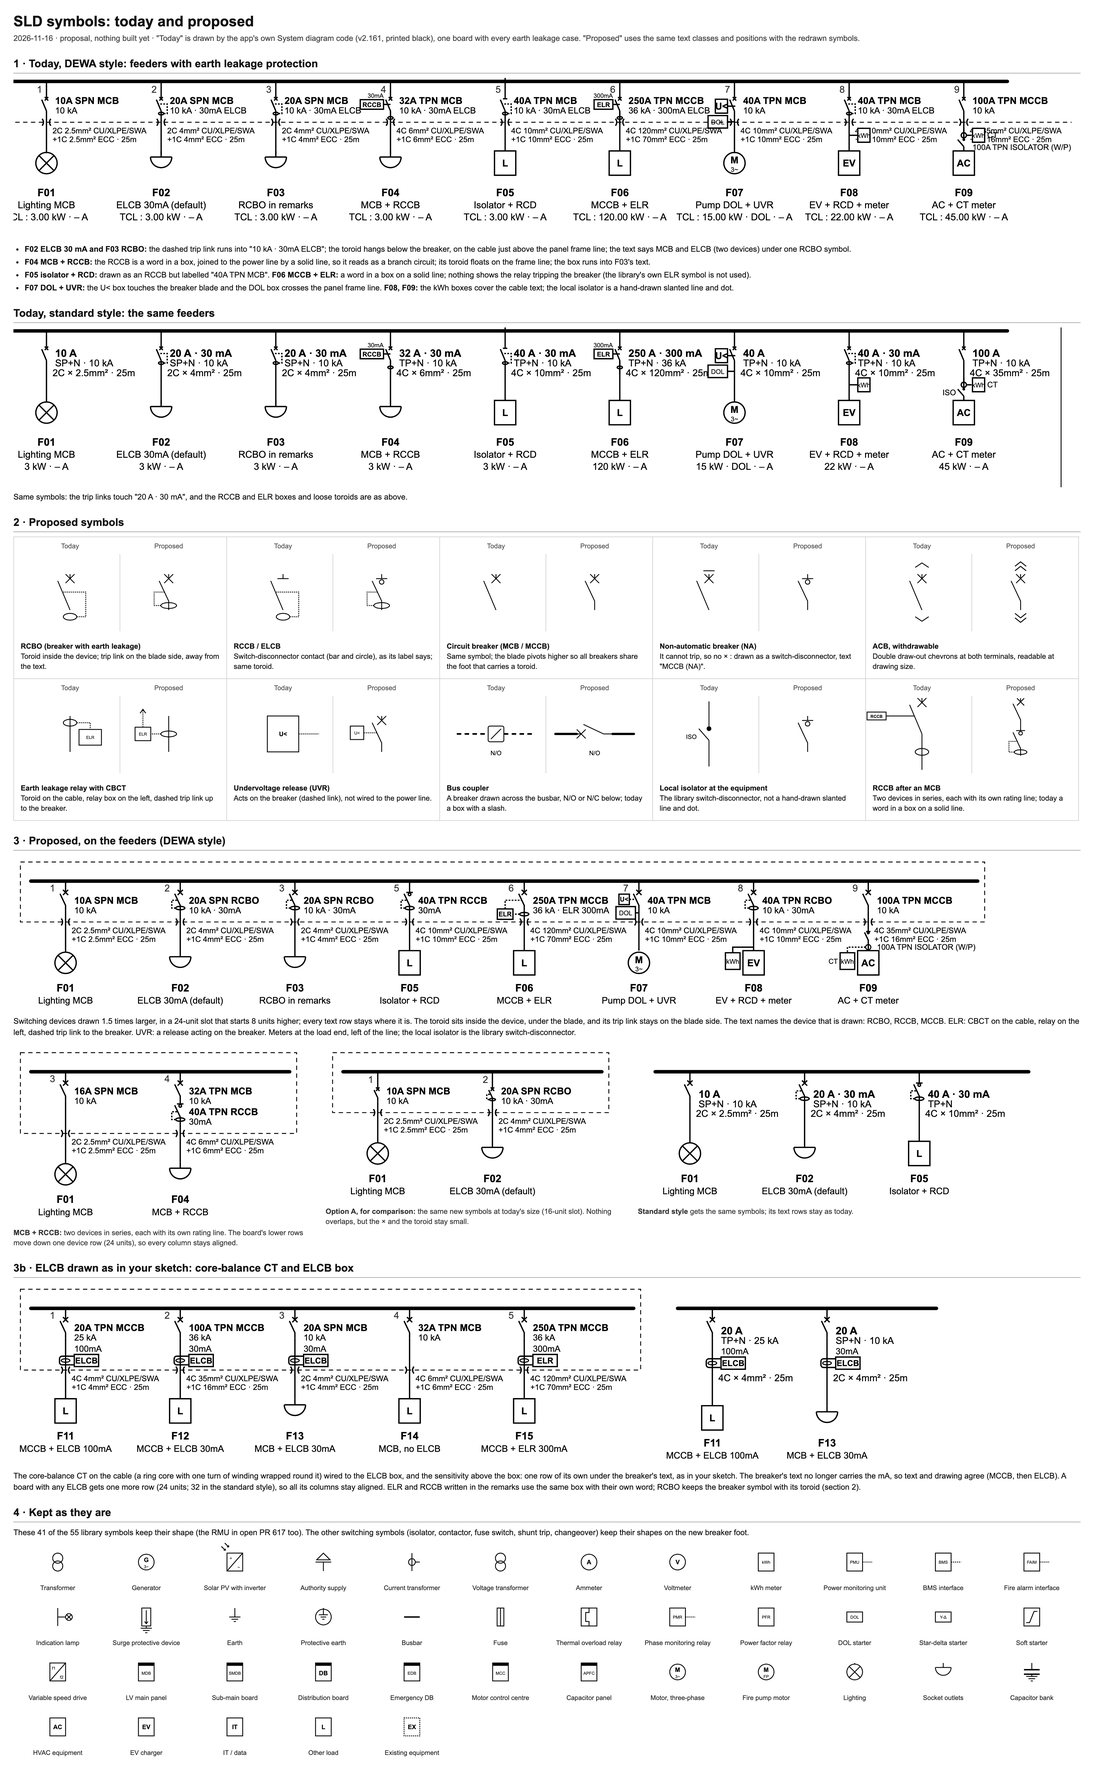
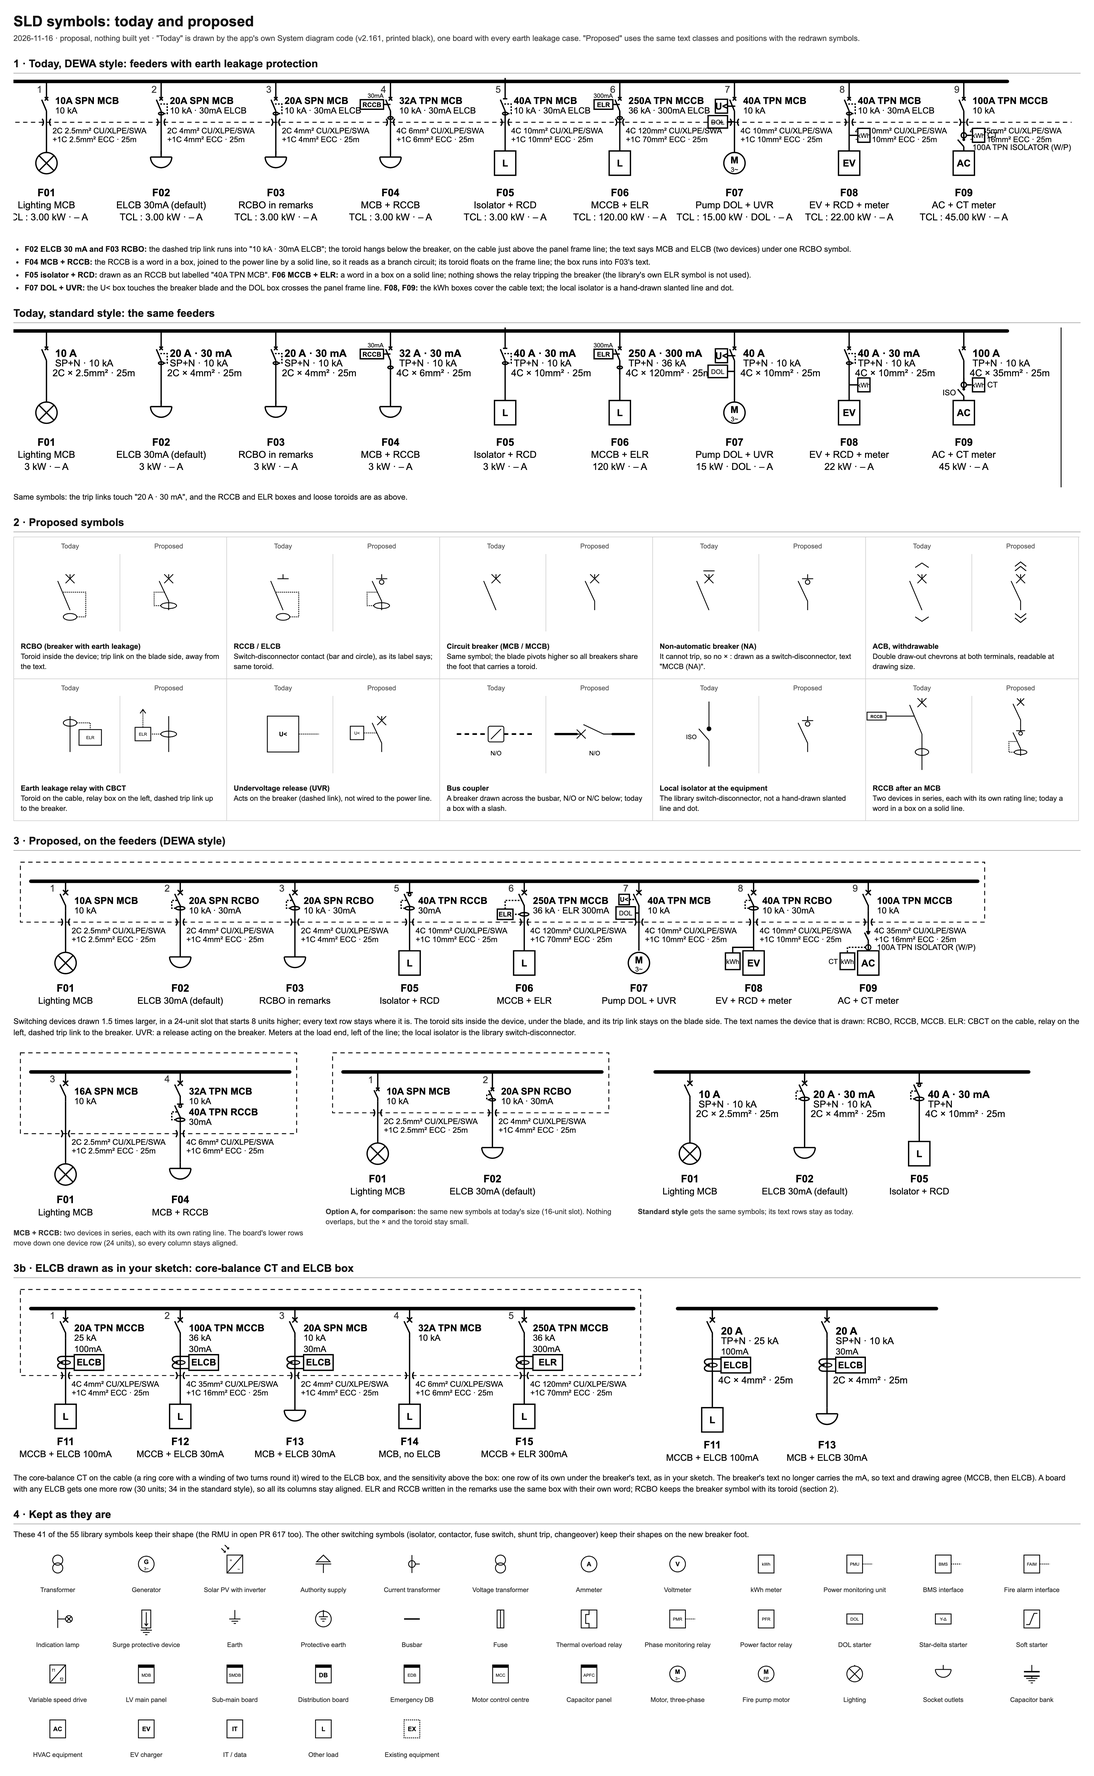
docs(sld): ELCB core-balance CT with a two-turn winding, as in the user's second sketch
The user's second sketch shows the winding round the core twice: two
loops round the ring core's left end, both ends across the cable into a
taller ELCB box, the sensitivity above. Mockup section 3b now draws that
(box 34 x 18). The ELCB row is 30 units (34 in the standard style) so the
mA, the box and the panel frame line stay clear of each other.

diff --git a/docs/mockups/sld-symbols-mockup.html b/docs/mockups/sld-symbols-mockup.html
@@ -133,10 +133,10 @@ svg text{font-family:Arial,Helvetica,sans-serif}
 
 <h2>3b · ELCB drawn as in your sketch: core-balance CT and ELCB box</h2>
 <div class="row">
-<figure><div class="sysdiag"><svg xmlns="http://www.w3.org/2000/svg" width="1128.4" height="316.2" viewBox="0 0 728 204"><rect x="8" y="8" width="714" height="93" class="frame-ln"/><line x1="20" y1="30" x2="714" y2="30" class="bus"/><line x1="60" y1="30" x2="60" y2="40" class="ln"/><text x="48" y="42" class="acc-t way-no" text-anchor="end" style="font-size:11px">1</text><g class="iec"><path d="M 60 40 V 43 M 57 40 L 63 46 M 63 40 L 57 46 M 60 64 V 58 L 53.63 44.5" class="ln"/></g><text x="70" y="56" class="dev" >20A TPN MCCB</text><text x="70" y="67" class="dev-k" >25 kA</text><line x1="60" y1="64" x2="60" y2="134" class="ln"/><g class="acc"><ellipse cx="60" cy="90" rx="5" ry="2" class="sym-ln"/><path d="M70 85H56A3 3 0 0 0 53 88V92A3 3 0 0 0 56 95H70" class="ln"/><rect x="70" y="83" width="28" height="14" class="sym"/><text x="84" y="93.4" class="acc-t b" text-anchor="middle" style="font-size:9.5px">ELCB</text><text x="70" y="80" class="acc-t" style="font-size:10px">100mA</text></g><path d="M55 97 q3 4 0 8 M65 97 q-3 4 0 8" class="ln"/><text x="67" y="114" class="acc-t" style="font-size:9px">4C 4mm² CU/XLPE/SWA</text><text x="67" y="124" class="acc-t" style="font-size:9px">+1C 4mm² ECC · 25m</text><g class="iec"><rect x="47.75" y="134" width="24.5" height="28" class="sym"/><text x="60" y="152" text-anchor="middle" class="iec-t b">L</text></g><text x="60" y="181" class="b" text-anchor="middle">F11</text><text x="60" y="195" class="m" text-anchor="middle" style="font-size:10.5px">MCCB + ELCB 100mA</text><line x1="192" y1="30" x2="192" y2="40" class="ln"/><text x="180" y="42" class="acc-t way-no" text-anchor="end" style="font-size:11px">2</text><g class="iec"><path d="M 192 40 V 43 M 189 40 L 195 46 M 195 40 L 189 46 M 192 64 V 58 L 185.63 44.5" class="ln"/></g><text x="202" y="56" class="dev" >100A TPN MCCB</text><text x="202" y="67" class="dev-k" >36 kA</text><line x1="192" y1="64" x2="192" y2="134" class="ln"/><g class="acc"><ellipse cx="192" cy="90" rx="5" ry="2" class="sym-ln"/><path d="M202 85H188A3 3 0 0 0 185 88V92A3 3 0 0 0 188 95H202" class="ln"/><rect x="202" y="83" width="28" height="14" class="sym"/><text x="216" y="93.4" class="acc-t b" text-anchor="middle" style="font-size:9.5px">ELCB</text><text x="202" y="80" class="acc-t" style="font-size:10px">30mA</text></g><path d="M187 97 q3 4 0 8 M197 97 q-3 4 0 8" class="ln"/><text x="199" y="114" class="acc-t" style="font-size:9px">4C 35mm² CU/XLPE/SWA</text><text x="199" y="124" class="acc-t" style="font-size:9px">+1C 16mm² ECC · 25m</text><g class="iec"><rect x="179.75" y="134" width="24.5" height="28" class="sym"/><text x="192" y="152" text-anchor="middle" class="iec-t b">L</text></g><text x="192" y="181" class="b" text-anchor="middle">F12</text><text x="192" y="195" class="m" text-anchor="middle" style="font-size:10.5px">MCCB + ELCB 30mA</text><line x1="324" y1="30" x2="324" y2="40" class="ln"/><text x="312" y="42" class="acc-t way-no" text-anchor="end" style="font-size:11px">3</text><g class="iec"><path d="M 324 40 V 43 M 321 40 L 327 46 M 327 40 L 321 46 M 324 64 V 58 L 317.63 44.5" class="ln"/></g><text x="334" y="56" class="dev" >20A SPN MCB</text><text x="334" y="67" class="dev-k" >10 kA</text><line x1="324" y1="64" x2="324" y2="134" class="ln"/><g class="acc"><ellipse cx="324" cy="90" rx="5" ry="2" class="sym-ln"/><path d="M334 85H320A3 3 0 0 0 317 88V92A3 3 0 0 0 320 95H334" class="ln"/><rect x="334" y="83" width="28" height="14" class="sym"/><text x="348" y="93.4" class="acc-t b" text-anchor="middle" style="font-size:9.5px">ELCB</text><text x="334" y="80" class="acc-t" style="font-size:10px">30mA</text></g><path d="M319 97 q3 4 0 8 M329 97 q-3 4 0 8" class="ln"/><text x="331" y="114" class="acc-t" style="font-size:9px">2C 4mm² CU/XLPE/SWA</text><text x="331" y="124" class="acc-t" style="font-size:9px">+1C 4mm² ECC · 25m</text><g class="iec"><path d="M 324 134 V 141 M 311.75 141 H 336.25" class="ln"/><path d="M 311.75 141 A 12.25 12.25 0 0 0 336.25 141" class="sym-open"/></g><text x="324" y="181" class="b" text-anchor="middle">F13</text><text x="324" y="195" class="m" text-anchor="middle" style="font-size:10.5px">MCB + ELCB 30mA</text><line x1="456" y1="30" x2="456" y2="40" class="ln"/><text x="444" y="42" class="acc-t way-no" text-anchor="end" style="font-size:11px">4</text><g class="iec"><path d="M 456 40 V 43 M 453 40 L 459 46 M 459 40 L 453 46 M 456 64 V 58 L 449.63 44.5" class="ln"/></g><text x="466" y="56" class="dev" >32A TPN MCB</text><text x="466" y="67" class="dev-k" >10 kA</text><line x1="456" y1="64" x2="456" y2="134" class="ln"/><path d="M451 97 q3 4 0 8 M461 97 q-3 4 0 8" class="ln"/><text x="463" y="114" class="acc-t" style="font-size:9px">4C 6mm² CU/XLPE/SWA</text><text x="463" y="124" class="acc-t" style="font-size:9px">+1C 6mm² ECC · 25m</text><g class="iec"><rect x="443.75" y="134" width="24.5" height="28" class="sym"/><text x="456" y="152" text-anchor="middle" class="iec-t b">L</text></g><text x="456" y="181" class="b" text-anchor="middle">F14</text><text x="456" y="195" class="m" text-anchor="middle" style="font-size:10.5px">MCB, no ELCB</text><line x1="588" y1="30" x2="588" y2="40" class="ln"/><text x="576" y="42" class="acc-t way-no" text-anchor="end" style="font-size:11px">5</text><g class="iec"><path d="M 588 40 V 43 M 585 40 L 591 46 M 591 40 L 585 46 M 588 64 V 58 L 581.63 44.5" class="ln"/></g><text x="598" y="56" class="dev" >250A TPN MCCB</text><text x="598" y="67" class="dev-k" >36 kA</text><line x1="588" y1="64" x2="588" y2="134" class="ln"/><g class="acc"><ellipse cx="588" cy="90" rx="5" ry="2" class="sym-ln"/><path d="M598 85H584A3 3 0 0 0 581 88V92A3 3 0 0 0 584 95H598" class="ln"/><rect x="598" y="83" width="28" height="14" class="sym"/><text x="612" y="93.4" class="acc-t b" text-anchor="middle" style="font-size:9.5px">ELR</text><text x="598" y="80" class="acc-t" style="font-size:10px">300mA</text></g><path d="M583 97 q3 4 0 8 M593 97 q-3 4 0 8" class="ln"/><text x="595" y="114" class="acc-t" style="font-size:9px">4C 120mm² CU/XLPE/SWA</text><text x="595" y="124" class="acc-t" style="font-size:9px">+1C 70mm² ECC · 25m</text><g class="iec"><rect x="575.75" y="134" width="24.5" height="28" class="sym"/><text x="588" y="152" text-anchor="middle" class="iec-t b">L</text></g><text x="588" y="181" class="b" text-anchor="middle">F15</text><text x="588" y="195" class="m" text-anchor="middle" style="font-size:10.5px">MCCB + ELR 300mA</text></svg></div></figure>
-<figure><div class="sysdiag"><svg xmlns="http://www.w3.org/2000/svg" width="514.6" height="328.6" viewBox="0 0 332 212"><line x1="20" y1="30" x2="318" y2="30" class="bus"/><line x1="60" y1="30" x2="60" y2="40" class="ln"/><g class="iec"><path d="M 60 40 V 43 M 57 40 L 63 46 M 63 40 L 57 46 M 60 64 V 58 L 53.63 44.5" class="ln"/></g><text x="70" y="60" class="b" >20 A</text><text x="70" y="71" class="acc-t" style="font-size:11px">TP+N · 25 kA</text><line x1="60" y1="64" x2="60" y2="142" class="ln"/><g class="acc"><ellipse cx="60" cy="93" rx="5" ry="2" class="sym-ln"/><path d="M70 88H56A3 3 0 0 0 53 91V95A3 3 0 0 0 56 98H70" class="ln"/><rect x="70" y="86" width="28" height="14" class="sym"/><text x="84" y="96.4" class="acc-t b" text-anchor="middle" style="font-size:9.5px">ELCB</text><text x="70" y="83" class="acc-t" style="font-size:10px">100mA</text></g><text x="67" y="114" class="m" >4C × 4mm² · 25m</text><g class="iec"><rect x="47.75" y="142" width="24.5" height="28" class="sym"/><text x="60" y="160" text-anchor="middle" class="iec-t b">L</text></g><text x="60" y="189" class="b" text-anchor="middle">F11</text><text x="60" y="203" class="m" text-anchor="middle" style="font-size:10.5px">MCCB + ELCB 100mA</text><line x1="192" y1="30" x2="192" y2="40" class="ln"/><g class="iec"><path d="M 192 40 V 43 M 189 40 L 195 46 M 195 40 L 189 46 M 192 64 V 58 L 185.63 44.5" class="ln"/></g><text x="202" y="60" class="b" >20 A</text><text x="202" y="71" class="acc-t" style="font-size:11px">SP+N · 10 kA</text><line x1="192" y1="64" x2="192" y2="142" class="ln"/><g class="acc"><ellipse cx="192" cy="93" rx="5" ry="2" class="sym-ln"/><path d="M202 88H188A3 3 0 0 0 185 91V95A3 3 0 0 0 188 98H202" class="ln"/><rect x="202" y="86" width="28" height="14" class="sym"/><text x="216" y="96.4" class="acc-t b" text-anchor="middle" style="font-size:9.5px">ELCB</text><text x="202" y="83" class="acc-t" style="font-size:10px">30mA</text></g><text x="199" y="114" class="m" >2C × 4mm² · 25m</text><g class="iec"><path d="M 192 142 V 149 M 179.75 149 H 204.25" class="ln"/><path d="M 179.75 149 A 12.25 12.25 0 0 0 204.25 149" class="sym-open"/></g><text x="192" y="189" class="b" text-anchor="middle">F13</text><text x="192" y="203" class="m" text-anchor="middle" style="font-size:10.5px">MCB + ELCB 30mA</text></svg></div></figure>
+<figure><div class="sysdiag"><svg xmlns="http://www.w3.org/2000/svg" width="1128.4" height="325.5" viewBox="0 0 728 210"><rect x="8" y="8" width="714" height="99" class="frame-ln"/><line x1="20" y1="30" x2="714" y2="30" class="bus"/><line x1="60" y1="30" x2="60" y2="40" class="ln"/><text x="48" y="42" class="acc-t way-no" text-anchor="end" style="font-size:11px">1</text><g class="iec"><path d="M 60 40 V 43 M 57 40 L 63 46 M 63 40 L 57 46 M 60 64 V 58 L 53.63 44.5" class="ln"/></g><text x="70" y="56" class="dev" >20A TPN MCCB</text><text x="70" y="67" class="dev-k" >25 kA</text><line x1="60" y1="64" x2="60" y2="140" class="ln"/><g class="acc"><ellipse cx="60" cy="92" rx="5.5" ry="2.2" class="sym-ln"/><path d="M70 85H56C49 85 49 92 57.5 92C49 92 49 99 56 99H70" class="ln"/><rect x="70" y="83" width="34" height="18" class="sym"/><text x="87" y="95.6" class="acc-t b" text-anchor="middle" style="font-size:10.5px">ELCB</text><text x="70" y="80" class="acc-t" style="font-size:10px">100mA</text></g><path d="M55 103 q3 4 0 8 M65 103 q-3 4 0 8" class="ln"/><text x="67" y="120" class="acc-t" style="font-size:9px">4C 4mm² CU/XLPE/SWA</text><text x="67" y="130" class="acc-t" style="font-size:9px">+1C 4mm² ECC · 25m</text><g class="iec"><rect x="47.75" y="140" width="24.5" height="28" class="sym"/><text x="60" y="158" text-anchor="middle" class="iec-t b">L</text></g><text x="60" y="187" class="b" text-anchor="middle">F11</text><text x="60" y="201" class="m" text-anchor="middle" style="font-size:10.5px">MCCB + ELCB 100mA</text><line x1="192" y1="30" x2="192" y2="40" class="ln"/><text x="180" y="42" class="acc-t way-no" text-anchor="end" style="font-size:11px">2</text><g class="iec"><path d="M 192 40 V 43 M 189 40 L 195 46 M 195 40 L 189 46 M 192 64 V 58 L 185.63 44.5" class="ln"/></g><text x="202" y="56" class="dev" >100A TPN MCCB</text><text x="202" y="67" class="dev-k" >36 kA</text><line x1="192" y1="64" x2="192" y2="140" class="ln"/><g class="acc"><ellipse cx="192" cy="92" rx="5.5" ry="2.2" class="sym-ln"/><path d="M202 85H188C181 85 181 92 189.5 92C181 92 181 99 188 99H202" class="ln"/><rect x="202" y="83" width="34" height="18" class="sym"/><text x="219" y="95.6" class="acc-t b" text-anchor="middle" style="font-size:10.5px">ELCB</text><text x="202" y="80" class="acc-t" style="font-size:10px">30mA</text></g><path d="M187 103 q3 4 0 8 M197 103 q-3 4 0 8" class="ln"/><text x="199" y="120" class="acc-t" style="font-size:9px">4C 35mm² CU/XLPE/SWA</text><text x="199" y="130" class="acc-t" style="font-size:9px">+1C 16mm² ECC · 25m</text><g class="iec"><rect x="179.75" y="140" width="24.5" height="28" class="sym"/><text x="192" y="158" text-anchor="middle" class="iec-t b">L</text></g><text x="192" y="187" class="b" text-anchor="middle">F12</text><text x="192" y="201" class="m" text-anchor="middle" style="font-size:10.5px">MCCB + ELCB 30mA</text><line x1="324" y1="30" x2="324" y2="40" class="ln"/><text x="312" y="42" class="acc-t way-no" text-anchor="end" style="font-size:11px">3</text><g class="iec"><path d="M 324 40 V 43 M 321 40 L 327 46 M 327 40 L 321 46 M 324 64 V 58 L 317.63 44.5" class="ln"/></g><text x="334" y="56" class="dev" >20A SPN MCB</text><text x="334" y="67" class="dev-k" >10 kA</text><line x1="324" y1="64" x2="324" y2="140" class="ln"/><g class="acc"><ellipse cx="324" cy="92" rx="5.5" ry="2.2" class="sym-ln"/><path d="M334 85H320C313 85 313 92 321.5 92C313 92 313 99 320 99H334" class="ln"/><rect x="334" y="83" width="34" height="18" class="sym"/><text x="351" y="95.6" class="acc-t b" text-anchor="middle" style="font-size:10.5px">ELCB</text><text x="334" y="80" class="acc-t" style="font-size:10px">30mA</text></g><path d="M319 103 q3 4 0 8 M329 103 q-3 4 0 8" class="ln"/><text x="331" y="120" class="acc-t" style="font-size:9px">2C 4mm² CU/XLPE/SWA</text><text x="331" y="130" class="acc-t" style="font-size:9px">+1C 4mm² ECC · 25m</text><g class="iec"><path d="M 324 140 V 147 M 311.75 147 H 336.25" class="ln"/><path d="M 311.75 147 A 12.25 12.25 0 0 0 336.25 147" class="sym-open"/></g><text x="324" y="187" class="b" text-anchor="middle">F13</text><text x="324" y="201" class="m" text-anchor="middle" style="font-size:10.5px">MCB + ELCB 30mA</text><line x1="456" y1="30" x2="456" y2="40" class="ln"/><text x="444" y="42" class="acc-t way-no" text-anchor="end" style="font-size:11px">4</text><g class="iec"><path d="M 456 40 V 43 M 453 40 L 459 46 M 459 40 L 453 46 M 456 64 V 58 L 449.63 44.5" class="ln"/></g><text x="466" y="56" class="dev" >32A TPN MCB</text><text x="466" y="67" class="dev-k" >10 kA</text><line x1="456" y1="64" x2="456" y2="140" class="ln"/><path d="M451 103 q3 4 0 8 M461 103 q-3 4 0 8" class="ln"/><text x="463" y="120" class="acc-t" style="font-size:9px">4C 6mm² CU/XLPE/SWA</text><text x="463" y="130" class="acc-t" style="font-size:9px">+1C 6mm² ECC · 25m</text><g class="iec"><rect x="443.75" y="140" width="24.5" height="28" class="sym"/><text x="456" y="158" text-anchor="middle" class="iec-t b">L</text></g><text x="456" y="187" class="b" text-anchor="middle">F14</text><text x="456" y="201" class="m" text-anchor="middle" style="font-size:10.5px">MCB, no ELCB</text><line x1="588" y1="30" x2="588" y2="40" class="ln"/><text x="576" y="42" class="acc-t way-no" text-anchor="end" style="font-size:11px">5</text><g class="iec"><path d="M 588 40 V 43 M 585 40 L 591 46 M 591 40 L 585 46 M 588 64 V 58 L 581.63 44.5" class="ln"/></g><text x="598" y="56" class="dev" >250A TPN MCCB</text><text x="598" y="67" class="dev-k" >36 kA</text><line x1="588" y1="64" x2="588" y2="140" class="ln"/><g class="acc"><ellipse cx="588" cy="92" rx="5.5" ry="2.2" class="sym-ln"/><path d="M598 85H584C577 85 577 92 585.5 92C577 92 577 99 584 99H598" class="ln"/><rect x="598" y="83" width="34" height="18" class="sym"/><text x="615" y="95.6" class="acc-t b" text-anchor="middle" style="font-size:10.5px">ELR</text><text x="598" y="80" class="acc-t" style="font-size:10px">300mA</text></g><path d="M583 103 q3 4 0 8 M593 103 q-3 4 0 8" class="ln"/><text x="595" y="120" class="acc-t" style="font-size:9px">4C 120mm² CU/XLPE/SWA</text><text x="595" y="130" class="acc-t" style="font-size:9px">+1C 70mm² ECC · 25m</text><g class="iec"><rect x="575.75" y="140" width="24.5" height="28" class="sym"/><text x="588" y="158" text-anchor="middle" class="iec-t b">L</text></g><text x="588" y="187" class="b" text-anchor="middle">F15</text><text x="588" y="201" class="m" text-anchor="middle" style="font-size:10.5px">MCCB + ELR 300mA</text></svg></div></figure>
+<figure><div class="sysdiag"><svg xmlns="http://www.w3.org/2000/svg" width="514.6" height="331.7" viewBox="0 0 332 214"><line x1="20" y1="30" x2="318" y2="30" class="bus"/><line x1="60" y1="30" x2="60" y2="40" class="ln"/><g class="iec"><path d="M 60 40 V 43 M 57 40 L 63 46 M 63 40 L 57 46 M 60 64 V 58 L 53.63 44.5" class="ln"/></g><text x="70" y="60" class="b" >20 A</text><text x="70" y="71" class="acc-t" style="font-size:11px">TP+N · 25 kA</text><line x1="60" y1="64" x2="60" y2="144" class="ln"/><g class="acc"><ellipse cx="60" cy="95" rx="5.5" ry="2.2" class="sym-ln"/><path d="M70 88H56C49 88 49 95 57.5 95C49 95 49 102 56 102H70" class="ln"/><rect x="70" y="86" width="34" height="18" class="sym"/><text x="87" y="98.6" class="acc-t b" text-anchor="middle" style="font-size:10.5px">ELCB</text><text x="70" y="83" class="acc-t" style="font-size:10px">100mA</text></g><text x="67" y="116" class="m" >4C × 4mm² · 25m</text><g class="iec"><rect x="47.75" y="144" width="24.5" height="28" class="sym"/><text x="60" y="162" text-anchor="middle" class="iec-t b">L</text></g><text x="60" y="191" class="b" text-anchor="middle">F11</text><text x="60" y="205" class="m" text-anchor="middle" style="font-size:10.5px">MCCB + ELCB 100mA</text><line x1="192" y1="30" x2="192" y2="40" class="ln"/><g class="iec"><path d="M 192 40 V 43 M 189 40 L 195 46 M 195 40 L 189 46 M 192 64 V 58 L 185.63 44.5" class="ln"/></g><text x="202" y="60" class="b" >20 A</text><text x="202" y="71" class="acc-t" style="font-size:11px">SP+N · 10 kA</text><line x1="192" y1="64" x2="192" y2="144" class="ln"/><g class="acc"><ellipse cx="192" cy="95" rx="5.5" ry="2.2" class="sym-ln"/><path d="M202 88H188C181 88 181 95 189.5 95C181 95 181 102 188 102H202" class="ln"/><rect x="202" y="86" width="34" height="18" class="sym"/><text x="219" y="98.6" class="acc-t b" text-anchor="middle" style="font-size:10.5px">ELCB</text><text x="202" y="83" class="acc-t" style="font-size:10px">30mA</text></g><text x="199" y="116" class="m" >2C × 4mm² · 25m</text><g class="iec"><path d="M 192 144 V 151 M 179.75 151 H 204.25" class="ln"/><path d="M 179.75 151 A 12.25 12.25 0 0 0 204.25 151" class="sym-open"/></g><text x="192" y="191" class="b" text-anchor="middle">F13</text><text x="192" y="205" class="m" text-anchor="middle" style="font-size:10.5px">MCB + ELCB 30mA</text></svg></div></figure>
 </div>
-<p>The core-balance CT on the cable (a ring core with one turn of winding wrapped round it) wired to the ELCB box, and the sensitivity above the box: one row of its own under the breaker's text, as in your sketch. The breaker's text no longer carries the mA, so text and drawing agree (MCCB, then ELCB). A board with any ELCB gets one more row (24 units; 32 in the standard style), so all its columns stay aligned. ELR and RCCB written in the remarks use the same box with their own word; RCBO keeps the breaker symbol with its toroid (section 2).</p>
+<p>The core-balance CT on the cable (a ring core with a winding of two turns round it) wired to the ELCB box, and the sensitivity above the box: one row of its own under the breaker's text, as in your sketch. The breaker's text no longer carries the mA, so text and drawing agree (MCCB, then ELCB). A board with any ELCB gets one more row (30 units; 34 in the standard style), so all its columns stay aligned. ELR and RCCB written in the remarks use the same box with their own word; RCBO keeps the breaker symbol with its toroid (section 2).</p>
 
 <h2>4 · Kept as they are</h2>
 <p>These 41 of the 55 library symbols keep their shape (the RMU in open PR 617 too). The other switching symbols (isolator, contactor, fuse switch, shunt trip, changeover) keep their shapes on the new breaker foot.</p>

diff --git a/docs/notes/Future development/UI UX proposals - 2026-11-16 - SLD symbols.md b/docs/notes/Future development/UI UX proposals - 2026-11-16 - SLD symbols.md
@@ -60,10 +60,10 @@ Mockup sections 2 and 3.
 The user then sent part of a drawing they use: on each MCCB feeder the earth leakage protection is a core-balance coil on the line with an "ELCB" box beside it and the sensitivity above the box (100mA, 30mA), on a row of its own next to the breaker; the breaker's text is only "20A TP MCCB". They asked whether we can draw the ELCB like that. Proposed, as the default for earth leakage:
 
 - A feeder with earth leakage (an RCD rating, or ELCB, RCCB, ELR or RCD in its remarks) gets that row under the breaker's text: the core-balance CT on the line, the box with the word (ELCB, or RCCB or ELR from the remarks), the sensitivity above the box. Nothing else joins the box to the power line.
-- The core-balance CT follows the user's sketch: a ring core round the cable, and one turn of winding wrapped round its left end, with both ends going to the box. On the same day we tried and set aside, as unclear at drawing size or not what the user meant: short lines and an arc, three rings, humps beside the cable, a single ring, and the IEC coil form of a current transformer.
+- The core-balance CT follows the user's sketch: a ring core round the cable, and a winding of two turns round its left end (two loops meeting in the core), with both ends going across the cable into the box. On the same day we tried and set aside, as unclear at drawing size or not what the user meant: short lines and an arc, three rings, humps beside the cable, a single ring, a single-turn loop, and the IEC coil form of a current transformer.
 - The breaker's text drops the mA ("20A TPN MCCB / 25 kA"), so text and drawing agree: an MCCB, then its ELCB.
 - Only "RCBO" in the remarks keeps the breaker symbol with its toroid (item 2), because an RCBO is one device.
-- A board with any such feeder gets one more row (24 units; 32 in the standard style, whose text rows sit lower), so its columns stay aligned.
+- A board with any such feeder gets one more row (30 units; 34 in the standard style, whose text rows sit lower), so its columns stay aligned.
 - In the user's drawing the busbar (blue) is at the bottom, so the ELCB is on the breaker's outgoing side; on our SLD the busbar is on top, so the row goes under the breaker.
 
 This replaces items 2 (RCCB symbol for an ELCB), 3 (RCCB after an MCB as a second switching device) and 4 (ELR) as the default; they remain the alternative under decision 2. The user's drawing also draws the MCCB as an arc between two small circles, the older BS style; that is not proposed here.
